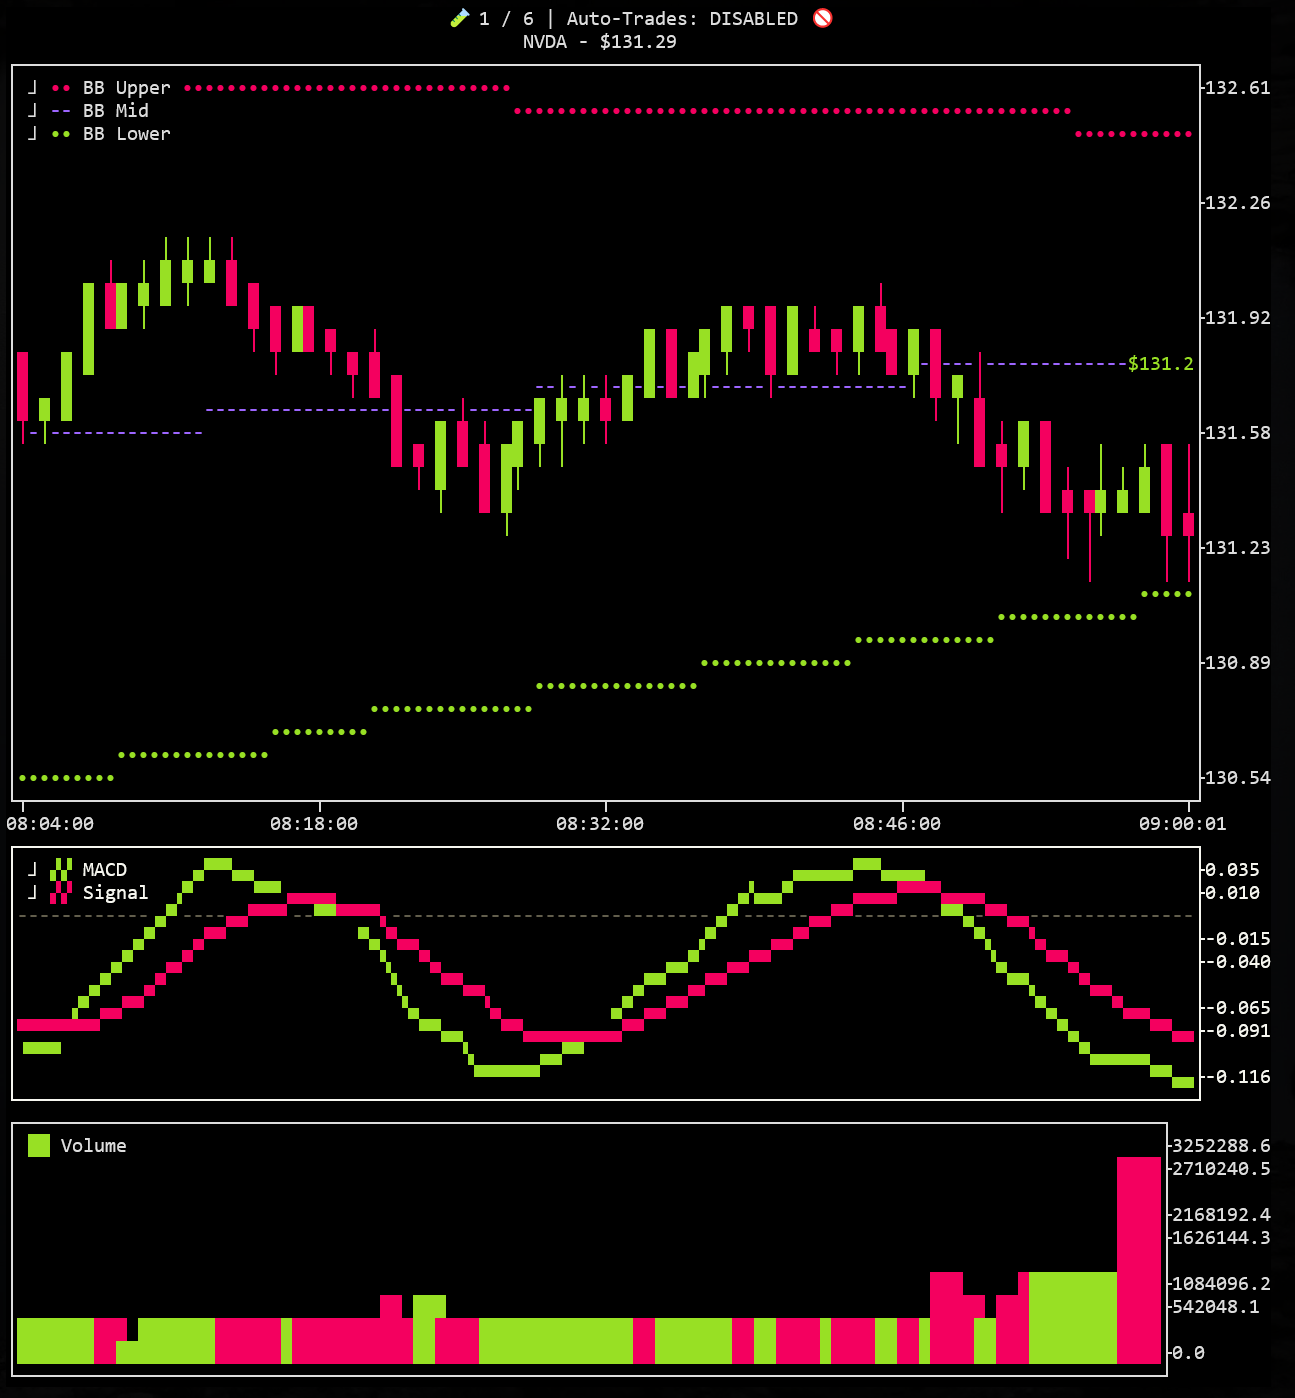
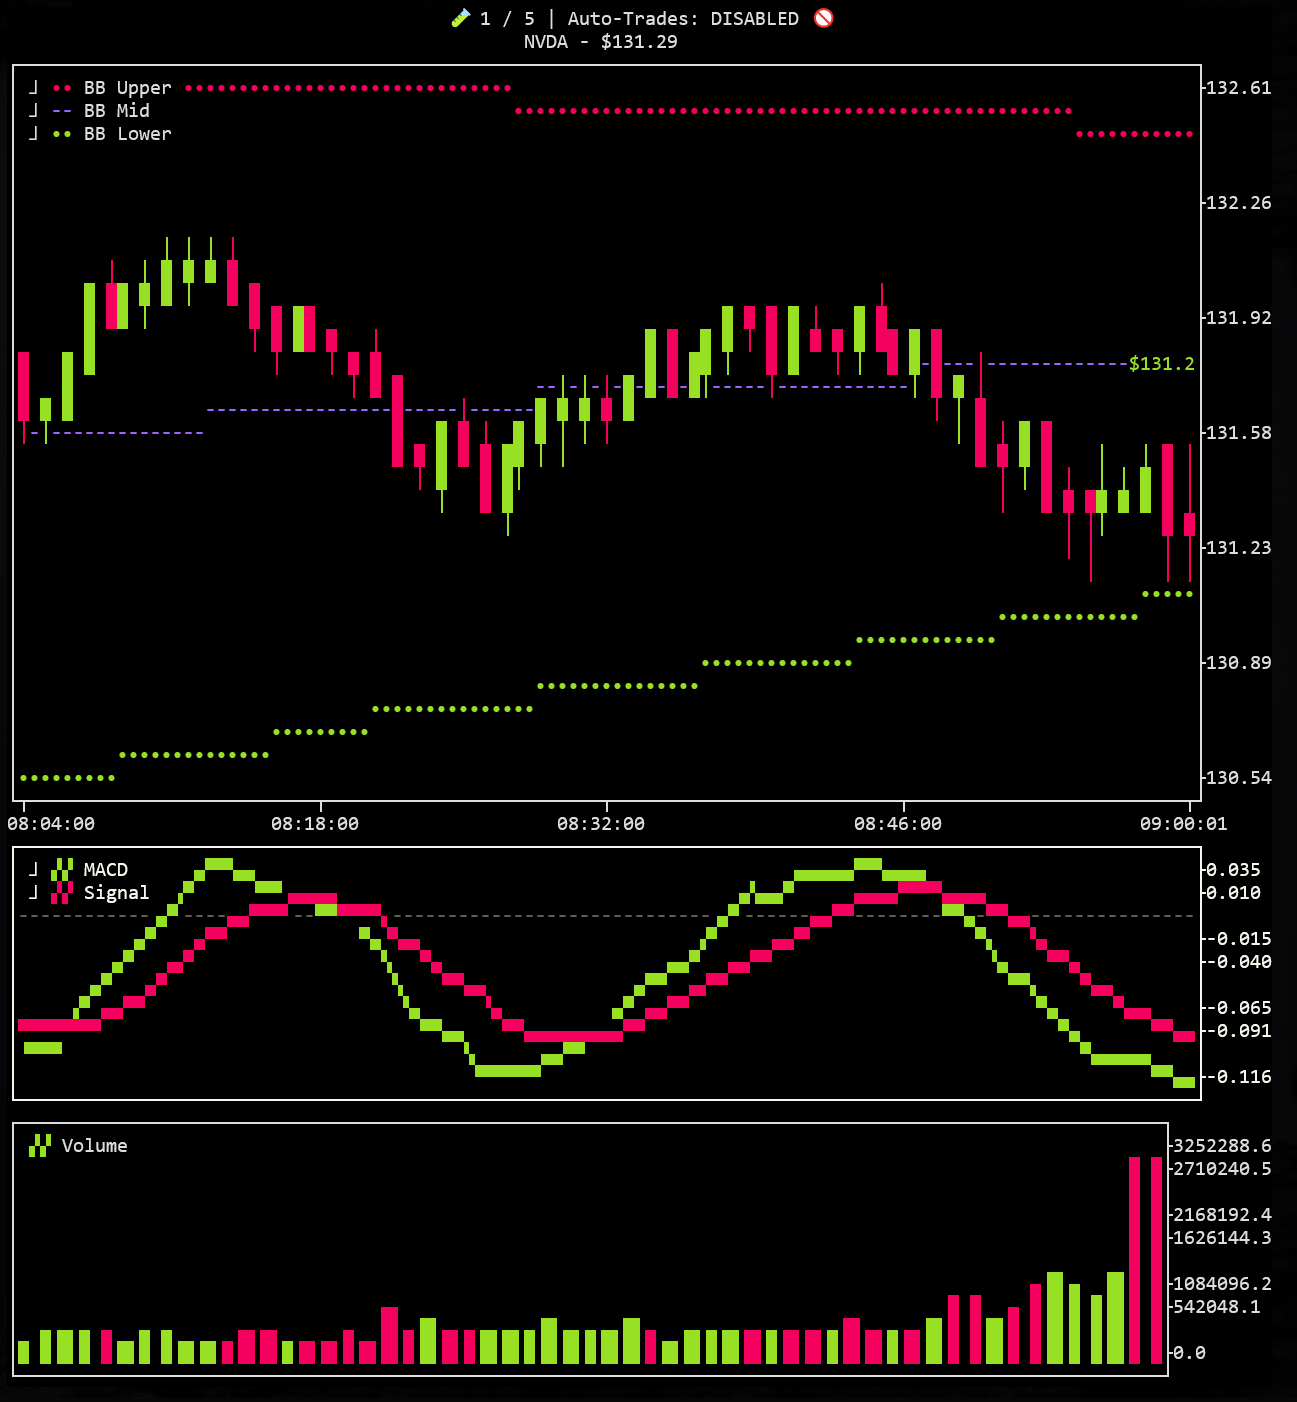
Add volume chart.

diff --git a/src/spectr/views/volume_view.py b/src/spectr/views/volume_view.py
@@ -65,6 +65,8 @@ class VolumeView(Static):
             label = "Volume",
             color = colors.tolist(),  # ← list of colors, one per bar
             yside = "right",
+            marker = "hd",
+            width = 0.4,
         )
 
         # A zero baseline (optional, comment out if you prefer)
